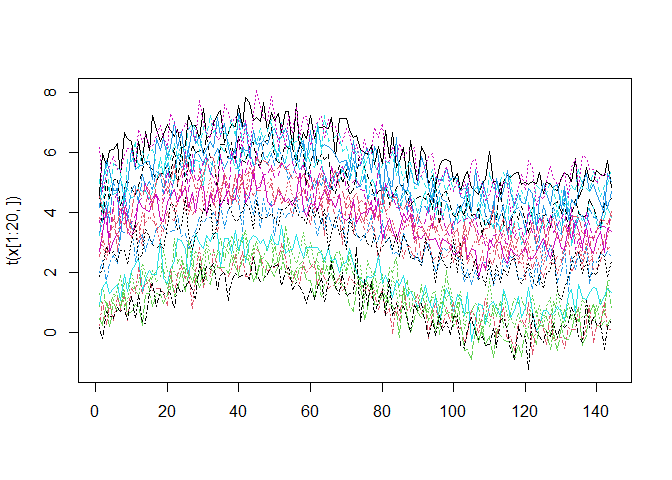
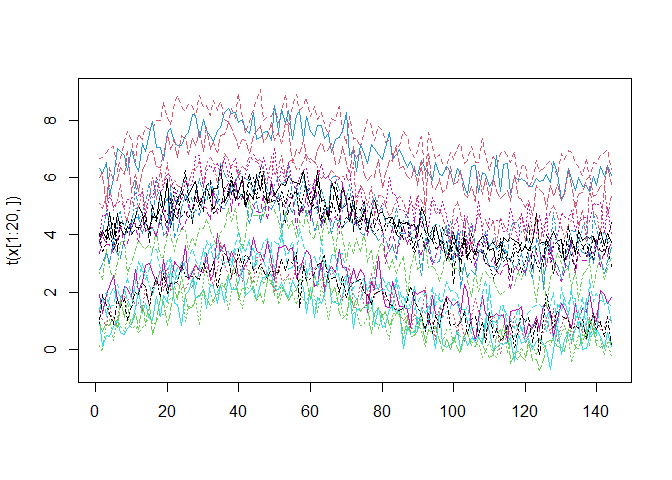
Minor update

diff --git a/README.md b/README.md
@@ -1,32 +1,40 @@
 
 <!-- README.md is generated from README.Rmd. Please edit that file -->
 
-# `fqpca` package
+# `FunQuantPCA` package
 
 <!-- badges: start -->
+
+[![License: GPL
+v3](https://img.shields.io/badge/License-GPLv3-blue.svg)](https://www.gnu.org/licenses/gpl-3.0)
+[![Package
+Version](https://img.shields.io/badge/version-0.1.1-blue.svg)](https://cran.r-project.org/package=yourPackageName)
+[![lifecycle](https://img.shields.io/badge/lifecycle-experimental-brightgreen.svg)](https://www.tidyverse.org/lifecycle/)
 <!-- badges: end -->
 
-`fqpca` is an R package that solves the functional quantile principal
-component analysis (fqpca) methodology. This is a dimensionality
-reduction technique that extends the concept of functional principal
-component analysis (FPCA) to the quantile regression framework. FPCA is
-commonly used to identify and describe variation in samples of curves,
-but is only able to provide mean based estimations which are known to be
-affected by outliers and skewness. On the other hand, FQPCA is able to
-capture shifts on the scale of the data affecting the quantiles, and is
-also a robust methodology suitable for dealing with outliers,
-heteroscedastic data or skewed data. The model is estimated using
-penalized M splines, and can deal with sparse and irregular time
-measurements.
+`FunQuantPCA` is an R package that solves the functional quantile
+principal component analysis (fqpca) methodology. FQPCA extends the
+concept of functional principal component analysis (FPCA) to the
+quantile regression framework. The goal of many methods in FDA is to
+recover the curve-specific mean by leveraging information across time
+points, subjects, or both. Our goal is broader: we seek to describe the
+full curve and time-specific probability distribution that underlies
+individual measurements. Although only one draw from the curve-and
+time-specific distribution of each individual is available, we will
+leverage information across time points and curves to estimate smooth,
+curve-specific quantile functions. This approach allows a richer
+understanding of functional data than considering only the expected
+value, and may be particularly useful when distributions are skewed,
+vary across subjects or present outliers.
 
 ## Installation
 
-You can install the development version of fqpca from
+You can install the development version of FunQuantPCA from
 [GitHub](https://github.com/) with:
 
 ``` r
 # install.packages("devtools")
-devtools::install_github("alvaromc317/fqpca")
+devtools::install_github("alvaromc317/FunQuantPCA")
 ```
 
 ## Example
@@ -36,12 +44,8 @@ example generates a fake dataset with 200 observations taken every 10
 minutes during one day. This defines a data matrix with 200 rows and 144
 columns following the formula:
 
-![x_i = \\lambda_1(sin(t)+sin(0.5t))+\\varepsilon_i](https://latex.codecogs.com/png.image?%5Cdpi%7B110%7D&space;%5Cbg_white&space;x_i%20%3D%20%5Clambda_1%28sin%28t%29%2Bsin%280.5t%29%29%2B%5Cvarepsilon_i "x_i = \lambda_1(sin(t)+sin(0.5t))+\varepsilon_i")
-
-where \*
-![\\lambda_1\\sim N(0,0.4)](https://latex.codecogs.com/png.image?%5Cdpi%7B110%7D&space;%5Cbg_white&space;%5Clambda_1%5Csim%20N%280%2C0.4%29 "\lambda_1\sim N(0,0.4)")
-\*
-![\\varepsilon_i\\sim\\chi^2(3)](https://latex.codecogs.com/png.image?%5Cdpi%7B110%7D&space;%5Cbg_white&space;%5Cvarepsilon_i%5Csim%5Cchi%5E2%283%29 "\varepsilon_i\sim\chi^2(3)")
+$$x_i = \lambda_1(sin(t)+sin(0.5t))+\varepsilon_i$$ where \*
+$\lambda_1\sim N(0,0.4)$ \* $\varepsilon_i\sim\chi^2(3)$
 
 ``` r
 n = 200
@@ -56,11 +60,11 @@ matplot(t(x[1:20,]), type="l")
 
 The above plot visualizes a subset of the data generated this way. Since
 the main methodology in the package can deal with sparse and irregular
-time measurements, we will include 50% of missing observations in the
+time measurements, we will include 75% of missing observations in the
 data matrix.
 
 ``` r
-x[sample(n*t, as.integer(0.5*n*t))] = NA
+x[sample(n*t, as.integer(0.75*n*t))] = NA
 ```
 
 Now, we apply the `fqpca` methodology on this dataset and obtain the
@@ -69,7 +73,7 @@ which is a robust alternative to the mean based predictions of
 traditional FPCA.
 
 ``` r
-library(fqpca)
+library(FunQuantPCA)
 x_train = x[1:150,]
 x_test = x[151:n,]
 results = fqpca(x=x_train, n_components=2, quantile_value=0.5)
@@ -87,4 +91,21 @@ the new observations using the loadings already computed.
 ``` r
 scores_test = predict(results, newdata=x_test)
 x_test_estimated = scores_test %*% t(loadings)
+```
+
+You can plot the computed loadings on a somewhat not very pretty plot,
+but still useful
+
+``` r
+plot(results)
+```
+
+<img src="man/figures/README-unnamed-chunk-6-1.png" width="100%" />
+
+And you can also compute the quantile error between the curve
+reconstruction and the true data
+
+``` r
+quantile_error(x=x_train, x_pred=x_train_estimated, quantile_value=0.5)
+#> [1] 0.1531883
 ```
